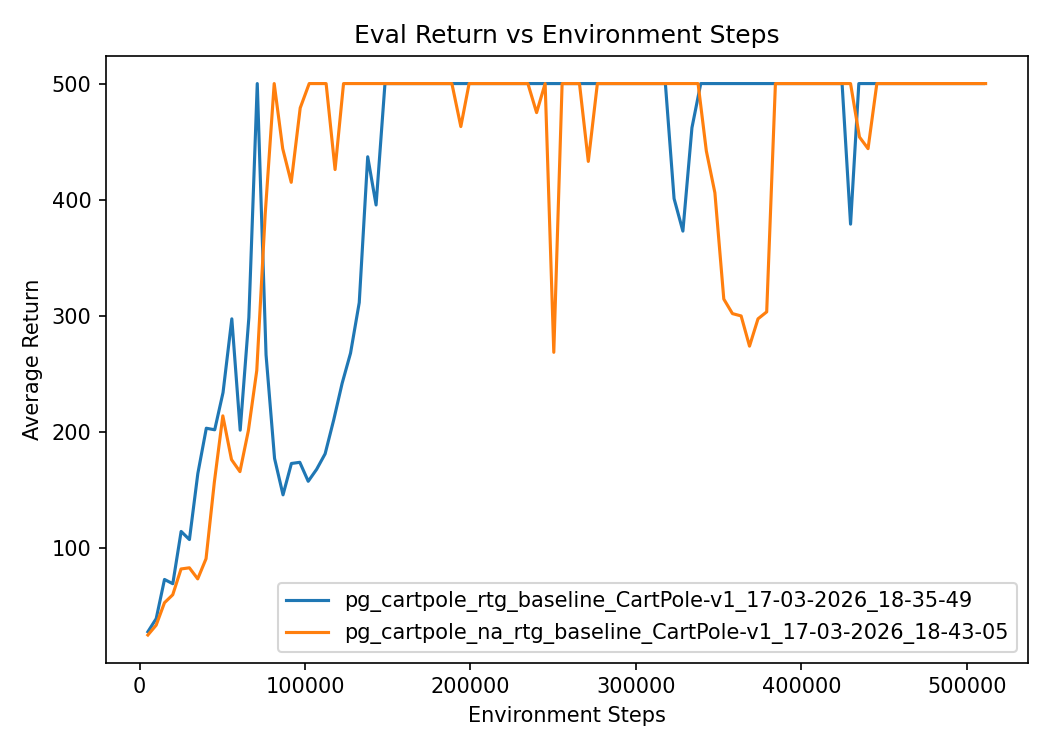
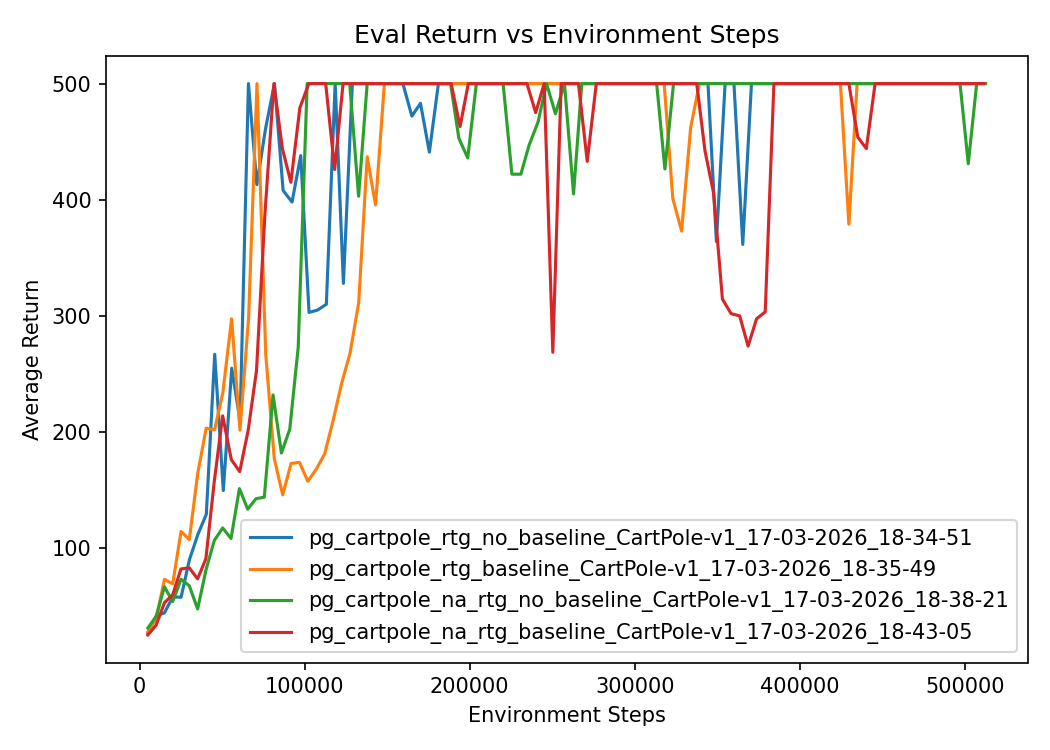
1.1.2

diff --git a/tuning_table.tex b/tuning_table.tex
@@ -1,0 +1,75 @@
+\begin{table}[h]
+\centering
+\small
+\begin{tabular}{l l l r r r r}
+\hline
+Run & Flags & Command & Steps & Eval@End & Eval@Max & BaselineLoss@End \\
+\hline
+pg\_cartpole\_baseline\_CartPole-v1\_17-03-2026\_03-22-41 & baseline & \texttt{python run.py --env\_name CartPole-v1 --exp\_name cartpole\_baseline --use\_baseline} & 215951 & 417.00 & 500.00 & - \\
+pg\_cartpole\_baseline\_CartPole-v1\_17-03-2026\_03-24-07 & baseline & \texttt{python run.py --env\_name CartPole-v1 --exp\_name cartpole\_baseline --use\_baseline} & 210267 & 246.50 & 246.50 & - \\
+pg\_cartpole\_CartPole-v1\_16-03-2026\_23-56-30 & none & \texttt{python run.py --env\_name CartPole-v1 --exp\_name cartpole} & 214502 & 228.50 & 500.00 & - \\
+pg\_cartpole\_CartPole-v1\_17-03-2026\_00-17-58 & none & \texttt{python run.py --env\_name CartPole-v1 --exp\_name cartpole} & 814841 & 61.57 & 500.00 & - \\
+pg\_cartpole\_CartPole-v1\_17-03-2026\_02-17-28 & none & \texttt{python run.py --env\_name CartPole-v1 --exp\_name cartpole} & 211681 & 108.25 & 500.00 & - \\
+pg\_cartpole\_CartPole-v1\_17-03-2026\_02-21-28 & none & \texttt{python run.py --env\_name CartPole-v1 --exp\_name cartpole} & 214683 & 124.25 & 500.00 & - \\
+pg\_cartpole\_CartPole-v1\_17-03-2026\_02-23-19 & none & \texttt{python run.py --env\_name CartPole-v1 --exp\_name cartpole} & 215982 & 359.00 & 500.00 & - \\
+pg\_cartpole\_CartPole-v1\_17-03-2026\_02-25-26 & none & \texttt{python run.py --env\_name CartPole-v1 --exp\_name cartpole} & 217458 & 126.50 & 500.00 & - \\
+pg\_cartpole\_CartPole-v1\_17-03-2026\_02-36-20 & none & \texttt{python run.py --env\_name CartPole-v1 --exp\_name cartpole} & 825205 & 191.00 & 500.00 & - \\
+pg\_cartpole\_CartPole-v1\_17-03-2026\_03-09-18 & none & \texttt{python run.py --env\_name CartPole-v1 --exp\_name cartpole} & 210276 & 114.50 & 359.00 & - \\
+pg\_cartpole\_CartPole-v1\_17-03-2026\_03-12-45 & none & \texttt{python run.py --env\_name CartPole-v1 --exp\_name cartpole} & 212329 & 101.60 & 500.00 & - \\
+pg\_cartpole\_CartPole-v1\_17-03-2026\_03-14-35 & none & \texttt{python run.py --env\_name CartPole-v1 --exp\_name cartpole} & 211202 & 216.33 & 414.00 & - \\
+pg\_cartpole\_CartPole-v1\_17-03-2026\_03-17-34 & none & \texttt{python run.py --env\_name CartPole-v1 --exp\_name cartpole} & 221427 & 165.67 & 500.00 & - \\
+pg\_cartpole\_CartPole-v1\_17-03-2026\_03-19-21 & none & \texttt{python run.py --env\_name CartPole-v1 --exp\_name cartpole} & 209437 & 169.33 & 185.33 & - \\
+pg\_cartpole\_CartPole-v1\_17-03-2026\_03-21-02 & none & \texttt{python run.py --env\_name CartPole-v1 --exp\_name cartpole} & 207236 & 56.25 & 500.00 & - \\
+pg\_cartpole\_CartPole-v1\_17-03-2026\_03-27-58 & none & \texttt{python run.py --env\_name CartPole-v1 --exp\_name cartpole} & 214782 & 140.75 & 442.00 & - \\
+pg\_cartpole\_CartPole-v1\_17-03-2026\_03-29-51 & none & \texttt{python run.py --env\_name CartPole-v1 --exp\_name cartpole} & 211979 & 219.00 & 332.00 & - \\
+pg\_cartpole\_CartPole-v1\_17-03-2026\_03-35-11 & none & \texttt{python run.py --env\_name CartPole-v1 --exp\_name cartpole} & 210943 & 103.40 & 253.00 & - \\
+pg\_cartpole\_CartPole-v1\_17-03-2026\_03-36-50 & none & \texttt{python run.py --env\_name CartPole-v1 --exp\_name cartpole} & 215836 & 211.50 & 500.00 & - \\
+pg\_cartpole\_CartPole-v1\_17-03-2026\_03-39-32 & none & \texttt{python run.py --env\_name CartPole-v1 --exp\_name cartpole} & 217520 & 233.00 & 432.00 & - \\
+pg\_cartpole\_CartPole-v1\_17-03-2026\_03-40-30 & none & \texttt{python run.py --env\_name CartPole-v1 --exp\_name cartpole} & 216801 & 500.00 & 500.00 & - \\
+pg\_cartpole\_CartPole-v1\_17-03-2026\_03-41-30 & none & \texttt{python run.py --env\_name CartPole-v1 --exp\_name cartpole} & 215566 & 208.33 & 500.00 & - \\
+pg\_cartpole\_CartPole-v1\_17-03-2026\_03-42-42 & none & \texttt{python run.py --env\_name CartPole-v1 --exp\_name cartpole} & 211557 & 72.33 & 171.00 & - \\
+pg\_cartpole\_CartPole-v1\_17-03-2026\_03-43-25 & none & \texttt{python run.py --env\_name CartPole-v1 --exp\_name cartpole} & 215243 & 100.00 & 500.00 & - \\
+pg\_cartpole\_CartPole-v1\_17-03-2026\_03-45-18 & none & \texttt{python run.py --env\_name CartPole-v1 --exp\_name cartpole} & 211023 & 148.67 & 231.00 & - \\
+pg\_cartpole\_CartPole-v1\_17-03-2026\_03-46-04 & none & \texttt{python run.py --env\_name CartPole-v1 --exp\_name cartpole} & 207916 & 86.00 & 156.67 & - \\
+pg\_cartpole\_CartPole-v1\_17-03-2026\_03-46-46 & none & \texttt{python run.py --env\_name CartPole-v1 --exp\_name cartpole} & 213639 & 347.50 & 500.00 & - \\
+pg\_cartpole\_CartPole-v1\_17-03-2026\_03-47-38 & none & \texttt{python run.py --env\_name CartPole-v1 --exp\_name cartpole} & 215600 & 374.50 & 500.00 & - \\
+pg\_cartpole\_CartPole-v1\_17-03-2026\_03-48-36 & none & \texttt{python run.py --env\_name CartPole-v1 --exp\_name cartpole} & 211279 & 121.25 & 271.50 & - \\
+pg\_cartpole\_CartPole-v1\_17-03-2026\_03-49-50 & none & \texttt{python run.py --env\_name CartPole-v1 --exp\_name cartpole} & 214493 & 150.67 & 292.00 & - \\
+pg\_cartpole\_CartPole-v1\_17-03-2026\_03-50-44 & none & \texttt{python run.py --env\_name CartPole-v1 --exp\_name cartpole} & 213618 & 98.80 & 500.00 & - \\
+pg\_cartpole\_CartPole-v1\_17-03-2026\_03-54-45 & none & \texttt{python run.py --env\_name CartPole-v1 --exp\_name cartpole} & 212204 & 159.33 & 460.00 & - \\
+pg\_cartpole\_CartPole-v1\_17-03-2026\_03-55-54 & none & \texttt{python run.py --env\_name CartPole-v1 --exp\_name cartpole} & 216973 & 500.00 & 500.00 & - \\
+pg\_cartpole\_CartPole-v1\_17-03-2026\_03-59-53 & none & \texttt{python run.py --env\_name CartPole-v1 --exp\_name cartpole} & 821587 & 128.75 & 500.00 & - \\
+pg\_cartpole\_CartPole-v1\_17-03-2026\_04-04-42 & none & \texttt{python run.py --env\_name CartPole-v1 --exp\_name cartpole} & 819538 & 264.00 & 500.00 & - \\
+pg\_cartpole\_CartPole-v1\_17-03-2026\_04-10-29 & none & \texttt{python run.py --env\_name CartPole-v1 --exp\_name cartpole} & 820701 & 134.00 & 500.00 & - \\
+pg\_cartpole\_CartPole-v1\_17-03-2026\_04-12-03 & none & \texttt{python run.py --env\_name CartPole-v1 --exp\_name cartpole} & 816566 & 211.50 & 500.00 & - \\
+pg\_cartpole\_CartPole-v1\_17-03-2026\_04-14-03 & none & \texttt{python run.py --env\_name CartPole-v1 --exp\_name cartpole} & 824194 & 207.50 & 500.00 & - \\
+pg\_cartpole\_CartPole-v1\_17-03-2026\_04-15-48 & none & \texttt{python run.py --env\_name CartPole-v1 --exp\_name cartpole} & 823299 & 284.50 & 500.00 & - \\
+pg\_cartpole\_CartPole-v1\_17-03-2026\_04-17-24 & none & \texttt{python run.py --env\_name CartPole-v1 --exp\_name cartpole} & 820003 & 480.00 & 500.00 & - \\
+pg\_cartpole\_CartPole-v1\_17-03-2026\_04-22-31 & none & \texttt{python run.py --env\_name CartPole-v1 --exp\_name cartpole} & 818455 & 184.00 & 500.00 & - \\
+pg\_cartpole\_CartPole-v1\_17-03-2026\_04-27-37 & none & \texttt{python run.py --env\_name CartPole-v1 --exp\_name cartpole} & 815227 & 166.00 & 500.00 & - \\
+pg\_cartpole\_CartPole-v1\_17-03-2026\_04-30-36 & none & \texttt{python run.py --env\_name CartPole-v1 --exp\_name cartpole} & 817795 & 500.00 & 500.00 & - \\
+pg\_cartpole\_na\_CartPole-v1\_17-03-2026\_00-05-42 & na & \texttt{python run.py --env\_name CartPole-v1 --exp\_name cartpole\_na -na} & 206684 & 500.00 & 500.00 & - \\
+pg\_cartpole\_na\_CartPole-v1\_17-03-2026\_00-38-19 & na & \texttt{python run.py --env\_name CartPole-v1 --exp\_name cartpole\_na -na} & 805492 & 500.00 & 500.00 & - \\
+pg\_cartpole\_na\_CartPole-v1\_17-03-2026\_02-27-26 & na & \texttt{python run.py --env\_name CartPole-v1 --exp\_name cartpole\_na -na} & 204140 & 500.00 & 500.00 & - \\
+pg\_cartpole\_na\_CartPole-v1\_17-03-2026\_02-53-44 & na & \texttt{python run.py --env\_name CartPole-v1 --exp\_name cartpole\_na -na} & 804991 & 500.00 & 500.00 & - \\
+pg\_cartpole\_na\_rtg\_baseline\_CartPole-v1\_17-03-2026\_18-43-05 & rtg,na,baseline & \texttt{python run.py --env\_name CartPole-v1 --exp\_name cartpole\_na\_rtg\_baseline -rtg -na --use\_baseline} & 511381 & 500.00 & 500.00 & 27668.88 \\
+pg\_cartpole\_na\_rtg\_baseline\_decreased\_CartPole-v1\_17-03-2026\_20-12-26 & rtg,na,baseline,baseline-decreased & \texttt{python run.py --env\_name CartPole-v1 --exp\_name cartpole\_na\_rtg\_baseline\_decreased -rtg -na --use\_baseline} & 510741 & 429.00 & 500.00 & 60465.84 \\
+pg\_cartpole\_na\_rtg\_no\_baseline\_CartPole-v1\_17-03-2026\_18-38-21 & rtg,na,baseline & \texttt{python run.py --env\_name CartPole-v1 --exp\_name cartpole\_na\_rtg\_no\_baseline -rtg -na --use\_baseline} & 512591 & 500.00 & 500.00 & - \\
+pg\_cartpole\_rtg\_baseline\_CartPole-v1\_17-03-2026\_18-35-49 & rtg,baseline & \texttt{python run.py --env\_name CartPole-v1 --exp\_name cartpole\_rtg\_baseline -rtg --use\_baseline} & 510098 & 500.00 & 500.00 & 27082.39 \\
+pg\_cartpole\_rtg\_baseline\_decreased\_CartPole-v1\_17-03-2026\_20-11-25 & rtg,baseline,baseline-decreased & \texttt{python run.py --env\_name CartPole-v1 --exp\_name cartpole\_rtg\_baseline\_decreased -rtg --use\_baseline} & 509535 & 278.50 & 500.00 & 15285.33 \\
+pg\_cartpole\_rtg\_CartPole-v1\_17-03-2026\_00-00-59 & rtg & \texttt{python run.py --env\_name CartPole-v1 --exp\_name cartpole\_rtg -rtg} & 209210 & 500.00 & 500.00 & - \\
+pg\_cartpole\_rtg\_CartPole-v1\_17-03-2026\_00-28-36 & rtg & \texttt{python run.py --env\_name CartPole-v1 --exp\_name cartpole\_rtg -rtg} & 815635 & 500.00 & 500.00 & - \\
+pg\_cartpole\_rtg\_CartPole-v1\_17-03-2026\_02-26-13 & rtg & \texttt{python run.py --env\_name CartPole-v1 --exp\_name cartpole\_rtg -rtg} & 219006 & 207.50 & 500.00 & - \\
+pg\_cartpole\_rtg\_CartPole-v1\_17-03-2026\_02-51-22 & rtg & \texttt{python run.py --env\_name CartPole-v1 --exp\_name cartpole\_rtg -rtg} & 819476 & 500.00 & 500.00 & - \\
+pg\_cartpole\_rtg\_CartPole-v1\_17-03-2026\_03-58-10 & rtg & \texttt{python run.py --env\_name CartPole-v1 --exp\_name cartpole\_rtg -rtg} & 224235 & 449.00 & 500.00 & - \\
+pg\_cartpole\_rtg\_na\_CartPole-v1\_17-03-2026\_00-14-34 & rtg,na & \texttt{python run.py --env\_name CartPole-v1 --exp\_name cartpole\_rtg\_na -rtg -na} & 207714 & 500.00 & 500.00 & - \\
+pg\_cartpole\_rtg\_na\_CartPole-v1\_17-03-2026\_00-47-58 & rtg,na & \texttt{python run.py --env\_name CartPole-v1 --exp\_name cartpole\_rtg\_na -rtg -na} & 817358 & 207.00 & 500.00 & - \\
+pg\_cartpole\_rtg\_na\_CartPole-v1\_17-03-2026\_02-28-53 & rtg,na & \texttt{python run.py --env\_name CartPole-v1 --exp\_name cartpole\_rtg\_na -rtg -na} & 218333 & 500.00 & 500.00 & - \\
+pg\_cartpole\_rtg\_na\_CartPole-v1\_17-03-2026\_02-55-20 & rtg,na & \texttt{python run.py --env\_name CartPole-v1 --exp\_name cartpole\_rtg\_na -rtg -na} & 814959 & 500.00 & 500.00 & - \\
+pg\_cartpole\_rtg\_no\_baseline\_CartPole-v1\_17-03-2026\_18-18-26 & rtg,baseline & \texttt{python run.py --env\_name CartPole-v1 --exp\_name cartpole\_rtg\_no\_baseline -rtg --use\_baseline} & 509561 & 500.00 & 500.00 & - \\
+pg\_cartpole\_rtg\_no\_baseline\_CartPole-v1\_17-03-2026\_18-34-51 & rtg,baseline & \texttt{python run.py --env\_name CartPole-v1 --exp\_name cartpole\_rtg\_no\_baseline -rtg --use\_baseline} & 510873 & 500.00 & 500.00 & - \\
+\hline
+\end{tabular}
+\caption{Training runs summary from event logs.}
+\label{tab:tuning-summary}
+\end{table}

diff --git a/summarize_runs_table.py b/summarize_runs_table.py
@@ -1,0 +1,168 @@
+import argparse
+import os
+from pathlib import Path
+
+
+def _try_import_tensorboard():
+    try:
+        from tensorboard.backend.event_processing.event_accumulator import EventAccumulator  # type: ignore
+        return EventAccumulator
+    except Exception as exc:
+        raise SystemExit(
+            "tensorboard is required to read event files. "
+            "Please run this script in the same Python environment where you ran training.\n"
+            f"Import error: {type(exc).__name__}: {exc}"
+        )
+
+
+def _pick_event_file(run_dir: Path) -> Path | None:
+    events = list(run_dir.glob("events.out.tfevents.*"))
+    if not events:
+        return None
+    # pick the largest file (usually most complete)
+    return max(events, key=lambda p: p.stat().st_size)
+
+
+def _escape_latex(s: str) -> str:
+    return s.replace("_", "\\_")
+
+
+def _infer_flags(run_name: str) -> str:
+    flags = []
+    if "_rtg_" in f"_{run_name}_":
+        flags.append("rtg")
+    if "_na_" in f"_{run_name}_":
+        flags.append("na")
+    if "_baseline_" in f"_{run_name}_":
+        flags.append("baseline")
+    if "_baseline_decreased_" in f"_{run_name}_":
+        flags.append("baseline-decreased")
+    if not flags:
+        flags.append("none")
+    return ",".join(flags)
+
+
+def _infer_command(run_name: str) -> str:
+    env_name = "CartPole-v1"
+    exp_name = run_name
+    if run_name.startswith("pg_"):
+        exp_name = run_name[len("pg_") :]
+    if "_CartPole-v1_" in exp_name:
+        exp_name = exp_name.split("_CartPole-v1_")[0]
+    flags = []
+    if "rtg" in exp_name.split("_"):
+        flags.append("-rtg")
+    if "na" in exp_name.split("_"):
+        flags.append("-na")
+    if "baseline" in exp_name.split("_"):
+        flags.append("--use_baseline")
+    cmd = f"python run.py --env_name {env_name} --exp_name {exp_name}"
+    if flags:
+        cmd += " " + " ".join(flags)
+    return cmd
+
+
+def _last_scalar(items):
+    if not items:
+        return None
+    # items have attributes: step, value
+    return max(items, key=lambda x: x.step).value
+
+
+def _max_scalar(items):
+    if not items:
+        return None
+    return max(items, key=lambda x: x.value).value
+
+
+def main():
+    parser = argparse.ArgumentParser(description="Summarize all runs in data/ into a LaTeX table.")
+    parser.add_argument("--data_dir", default="data", help="Path to data folder.")
+    parser.add_argument("--out_tex", default="tuning_table.tex", help="Output LaTeX file.")
+    parser.add_argument(
+        "--cmds_json",
+        default=None,
+        help="Optional JSON mapping of run directory name to exact command string.",
+    )
+    args = parser.parse_args()
+
+    EventAccumulator = _try_import_tensorboard()
+
+    cmds_map = {}
+    if args.cmds_json:
+        cmds_path = Path(args.cmds_json)
+        if cmds_path.exists():
+            cmds_map = json.loads(cmds_path.read_text(encoding="utf-8"))
+
+    data_dir = Path(args.data_dir)
+    if not data_dir.exists():
+        raise SystemExit(f"Data directory not found: {data_dir}")
+
+    rows = []
+    for run_dir in sorted(p for p in data_dir.iterdir() if p.is_dir()):
+        event_file = _pick_event_file(run_dir)
+        if event_file is None:
+            continue
+        try:
+            ea = EventAccumulator(str(event_file))
+            ea.Reload()
+            scalars = ea.Tags().get("scalars", [])
+            eval_returns = ea.Scalars("Eval_AverageReturn") if "Eval_AverageReturn" in scalars else []
+            env_steps = ea.Scalars("Train_EnvstepsSoFar") if "Train_EnvstepsSoFar" in scalars else []
+            baseline_loss = ea.Scalars("Baseline_Loss") if "Baseline_Loss" in scalars else []
+
+            row = {
+                "run": run_dir.name,
+                "flags": _infer_flags(run_dir.name),
+                "cmd": cmds_map.get(run_dir.name, _infer_command(run_dir.name)),
+                "steps": _last_scalar(env_steps) or (max(s.step for s in eval_returns) if eval_returns else None),
+                "eval_last": _last_scalar(eval_returns),
+                "eval_max": _max_scalar(eval_returns),
+                "baseline_last": _last_scalar(baseline_loss),
+            }
+            rows.append(row)
+        except Exception as exc:
+            rows.append(
+                {
+                    "run": run_dir.name,
+                    "flags": _infer_flags(run_dir.name),
+                    "cmd": cmds_map.get(run_dir.name, _infer_command(run_dir.name)),
+                    "steps": None,
+                    "eval_last": None,
+                    "eval_max": None,
+                    "baseline_last": None,
+                    "error": f"{type(exc).__name__}: {exc}",
+                }
+            )
+
+    lines = []
+    lines.append("\\begin{table}[h]")
+    lines.append("\\centering")
+    lines.append("\\small")
+    lines.append("\\begin{tabular}{l l l r r r r}")
+    lines.append("\\hline")
+    lines.append("Run & Flags & Command & Steps & Eval@End & Eval@Max & BaselineLoss@End \\\\")
+    lines.append("\\hline")
+    for r in rows:
+        run = _escape_latex(r["run"])
+        flags = _escape_latex(r["flags"])
+        cmd = _escape_latex(r["cmd"])
+        steps = "-" if r["steps"] is None else f"{int(r['steps'])}"
+        eval_last = "-" if r["eval_last"] is None else f"{r['eval_last']:.2f}"
+        eval_max = "-" if r["eval_max"] is None else f"{r['eval_max']:.2f}"
+        baseline_last = "-" if r["baseline_last"] is None else f"{r['baseline_last']:.2f}"
+        lines.append(
+            f"{run} & {flags} & \\texttt{{{cmd}}} & {steps} & {eval_last} & {eval_max} & {baseline_last} \\\\"
+        )
+    lines.append("\\hline")
+    lines.append("\\end{tabular}")
+    lines.append("\\caption{Training runs summary from event logs.}")
+    lines.append("\\label{tab:tuning-summary}")
+    lines.append("\\end{table}")
+
+    Path(args.out_tex).write_text("\n".join(lines), encoding="utf-8")
+    print(f"Wrote {args.out_tex} with {len(rows)} runs.")
+
+
+if __name__ == "__main__":
+    main()

diff --git a/src/critics.py b/src/critics.py
@@ -41,8 +41,8 @@ class ValueCritic(nn.Module):
 
         ############################
         # YOUR IMPLEMENTATION HERE #
-        values = self.network(obs)
-        values = values.squeeze(-1)
+        values= self.network(obs)
+        values= values.squeeze(-1)
         ############################
 
         return values
@@ -56,12 +56,10 @@ class ValueCritic(nn.Module):
         loss = None
         ############################
         # YOUR IMPLEMENTATION HERE #
-        values = self.forward(obs)
-        values = values.view(-1)
-        q_values = q_values.view(-1)
-
-        loss = F.mse_loss(values, q_values)
-
+        values= self.forward(obs)
+        values= values.view(-1)
+        q_values =q_values.view(-1)
+        loss =F.mse_loss(values, q_values)
         self.optimizer.zero_grad()
         loss.backward()
         self.optimizer.step()

diff --git a/plots/plot_eval_return.py b/plots/plot_eval_return.py
@@ -5,15 +5,18 @@ from tensorboard.backend.event_processing.event_accumulator import EventAccumula
 
 
 RUN_DIRS = [
+    "pg_cartpole_rtg_no_baseline_CartPole-v1_17-03-2026_18-34-51",
     "pg_cartpole_rtg_baseline_CartPole-v1_17-03-2026_18-35-49",
+    "pg_cartpole_na_rtg_no_baseline_CartPole-v1_17-03-2026_18-38-21",
     "pg_cartpole_na_rtg_baseline_CartPole-v1_17-03-2026_18-43-05",
 ]
 
 
 def main():
     plt.figure(figsize=(7, 5))
+    data_dir = Path(__file__).resolve().parents[1] / "data"
     for name in RUN_DIRS:
-        run_dir = Path("data") / name
+        run_dir = data_dir / name
         event_files = sorted(run_dir.glob("events.out.tfevents.*"))
         ea = EventAccumulator(str(event_files[0]))
         ea.Reload()

diff --git a/src/pg_agent.py b/src/pg_agent.py
@@ -195,12 +195,12 @@ class PGAgent(nn.Module):
 
         ############################
         # YOUR IMPLEMENTATION HERE #
-        rewards = np.asarray(rewards, dtype=np.float32)
+        rewards =np.asarray(rewards, dtype=np.float32)
         q_values= np.zeros_like(rewards, dtype=np.float32)
         running_sum = 0.0
         for t in reversed(range(rewards.shape[0])):
             running_sum =rewards[t] +self.gamma * running_sum
-            q_values[t] =running_sum
+            q_values[t]=running_sum
         return q_values
         ############################
         pass

diff --git a/src/policies.py b/src/policies.py
@@ -125,10 +125,9 @@ class MLPPolicyPG(MLPPolicy):
 
         ############################
         # YOUR IMPLEMENTATION HERE #
-        action_dist = self.forward(obs)
-        log_probs = action_dist.log_prob(actions)
-        loss = -(log_probs * advantages).mean()
-
+        action_dist =self.forward(obs)
+        log_probs =action_dist.log_prob(actions)
+        loss =-(log_probs * advantages).mean()
         self.optimizer.zero_grad()
         loss.backward()
         self.optimizer.step()

diff --git a/src/utils.py b/src/utils.py
@@ -35,7 +35,7 @@ def sample_trajectory(
         # YOUR IMPLEMENTATION HERE #
         ac = policy.get_action(ob)
         next_ob, rew, terminated, truncated, _ = env.step(ac)
-        rollout_done = bool(terminated or truncated)
+        rollout_done=bool(terminated or truncated)
         ############################
 
 
